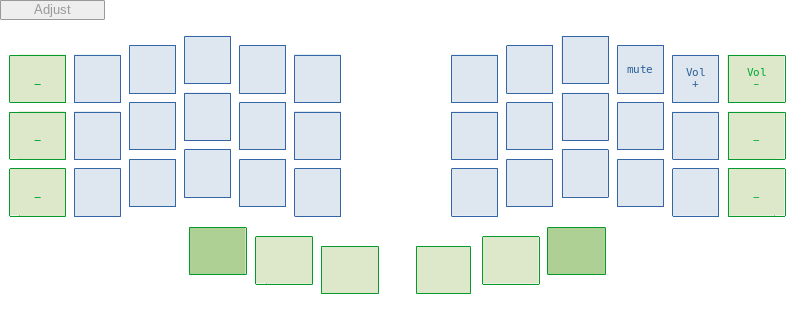
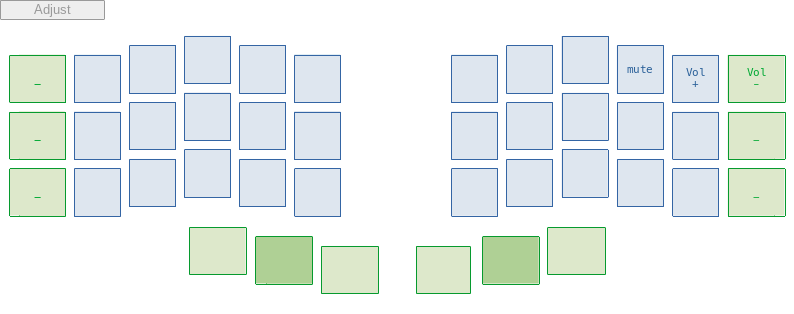
Replace colon/scolon

Changed region(s): [[0.6045, 0.7166, 0.7859, 0.9172], [0.2418, 0.7166, 0.3929, 0.9172]]

diff --git a/keymap.c b/keymap.c
@@ -99,12 +99,12 @@ const uint16_t PROGMEM keymaps[][MATRIX_ROWS][MATRIX_COLS] = {
   //|-----------------------+----------------+----------------+----------------+----------------+-----------------------|       |-----------------------+----------------+----------------+----------------+----------------+-----------------------|
       KC_TAB                ,     BP_Z       ,    BP_EACU     ,     BP_P       ,     BP_O       ,        BP_J           ,                 BP_K          ,      BP_V      ,      BP_D      ,      BP_L      ,      BP_M      ,       KC_BSPC         ,
   //|-----------------------+----------------+----------------+----------------+----------------+-----------------------|       |-----------------------+----------------+----------------+----------------+----------------+-----------------------|
-      GUI_T(KC_ESC)         ,     BP_A       ,     BP_U       ,     BP_I       ,     BP_E       ,       BP_EXLM         ,                 BP_C          ,      BP_T      ,      BP_S      ,      BP_R      ,      BP_N      ,     RCS_T(BP_PERC)    ,
+      GUI_T(KC_ESC)         ,     BP_A       ,     BP_U       ,     BP_I       ,     BP_E       ,       BP_EXLM         ,                 BP_C          ,      BP_T      ,      BP_S      ,      BP_R      ,      BP_N      ,       BP_QUOT         ,
   //|-----------------------+----------------+----------------+----------------+----------------+-----------------------|       |-----------------------+----------------+----------------+----------------+----------------+-----------------------|
       KC_LAPO               ,     BP_B       ,     BP_Y       ,     BP_X       ,     BP_W       ,       BP_LABK         ,                BP_RABK        ,      BP_Q      ,      BP_G      ,      BP_H      ,      BP_F      ,       KC_RSPC         ,
   //|---/* ALT ¨ */---------+----------------+----------------+----------------+----------------+-----------------------|       |-----------------------+----------------+----------------+----------------+----------------+------/* SFT ^ */------|
   //                                                |----------------------+----------------------+-----------------------|   |-----------------------+----------------------+----------------------|
-                                                            BP_COLN        , LT(_MOUSE, BP_COMM)  ,        KC_LCPO        ,       LT(_NUMERIC, KC_ENT) , LT(_ARROWS, BP_DOT)  ,     BP_QUOT
+                                                            BP_SCLN        , LT(_MOUSE, BP_COMM)  ,        KC_LCPO        ,      LT(_NUMERIC, KC_ENT) , LT(_ARROWS, BP_DOT)  ,     BP_COLN
   //                                                |----------------------+----------------------+----/* Space ctl */----|   |-----------------------+----------------------+----------------------|
   ),
 
@@ -181,12 +181,12 @@ const uint16_t PROGMEM keymaps[][MATRIX_ROWS][MATRIX_COLS] = {
   //|-----------------------+----------------+----------------+----------------+----------------+-----------------------|       |-----------------------+----------------+----------------+----------------+----------------+-----------------------|
        KC_TAB               ,     KC_Z       ,    XXXXXXX     ,     KC_P       ,     KC_O       ,        KC_J           ,                 KC_K          ,      KC_V      ,      KC_D      ,      KC_L      ,      KC_M      ,     KC_BSPC           ,
   //|-----------------------+----------------+----------------+----------------+----------------+-----------------------|       |-----------------------+----------------+----------------+----------------+----------------+-----------------------|
-      LGUI_T(KC_ESC)        ,     KC_A       ,     KC_U       ,     KC_I       ,     KC_E       ,       KC_EXLM         ,                 KC_C          ,      KC_T      ,      KC_S      ,      KC_R      ,      KC_N      ,    RCS_T(KC_PERCENT)  ,
+      LGUI_T(KC_ESC)        ,     KC_A       ,     KC_U       ,     KC_I       ,     KC_E       ,       KC_EXLM         ,                 KC_C          ,      KC_T      ,      KC_S      ,      KC_R      ,      KC_N      ,     KC_QUOTE          ,
   //|-----------------------+----------------+----------------+----------------+----------------+-----------------------|       |-----------------------+----------------+----------------+----------------+----------------+-----------------------|
        KC_LALT              ,     KC_B       ,     KC_Y       ,     KC_X       ,     KC_W       ,       KC_LABK         ,                KC_RABK        ,      KC_Q      ,      KC_G      ,      KC_H      ,      KC_F      ,     KC_RSFT           ,
   //|-----------------------+----------------+----------------+----------------+----------------+-----------------------|       |-----------------------+----------------+----------------+----------------+----------------+-----------------------|
   //                                            |------------------------+------------------------+-----------------------|   |-----------------------+------------------------+------------------------|
-                                                         KC_COLON        , LT(_US_MOUSE, KC_COMMA),        KC_LCPO        ,    LT(_US_NUMERIC, KC_ENT), LT(_US_ARROWS, KC_DOT) ,      KC_QUOTE
+                                                       KC_SEMICOLON      , LT(_US_MOUSE, KC_COMMA),        KC_LCPO        ,    LT(_US_NUMERIC, KC_ENT), LT(_US_ARROWS, KC_DOT) ,      KC_COLON
   //                                            |------------------------+------------------------+----/* Space ctl */----|   |-----------------------+------------------------+------------------------|
   ),
 

diff --git a/features/combo.c b/features/combo.c
@@ -28,7 +28,7 @@ enum combos {
     U_ACCENT,
     C_CEDILLE,
 
-
+    // --
     ENTER_SHIFTED,
         US_ENTER_SHIFTED,
 
@@ -53,8 +53,6 @@ enum combos {
         US_BACKSLASH,
     CIRCUMFLEX,
         US_CIRCUMFLEX,
-    COLON,
-        US_COLON,
     DOUBLE_QUOTE,
         US_DOUBLE_QUOTE,
     GRAVE,
@@ -63,8 +61,6 @@ enum combos {
         US_HASH,
     PIPE,
         US_PIPE,
-    SEMICOLON,
-        US_SEMICOLON,
     SLASH,
         US_SLASH,
     TILDE,
@@ -95,8 +91,7 @@ uint16_t COMBO_LEN = COMBO_LENGTH;
 // Sequences fo keys
 const uint16_t PROGMEM switch_bepo_usa[] = {KC_TAB, KC_BSPC, COMBO_END};
 
-// KC_SEMICOLON      , LT(_US_MOUSE, KC_COMMA),        KC_LCPO        ,    LT(_US_NUMERIC, KC_ENT), LT(_US_ARROWS, KC_DOT) ,      KC_COLON
-
+// --
 const uint16_t PROGMEM combo_adjust[] = {LT(_MOUSE, BP_COMM), LT(_ARROWS, BP_DOT), COMBO_END};
 const uint16_t PROGMEM us_combo_adjust[] = {LT(_US_MOUSE, KC_COMMA), LT(_US_ARROWS, KC_DOT), COMBO_END};
 
@@ -118,7 +113,6 @@ const uint16_t PROGMEM us_combo_control_shift_alt[] = {KC_LCPO, KC_S, KC_A, COMB
 
 const uint16_t PROGMEM combo_right_alt[] = {KC_LAPO, BP_G, COMBO_END};
 const uint16_t PROGMEM us_combo_right_alt[] = {KC_LALT, KC_G, COMBO_END};
-
 
 // --
 const uint16_t PROGMEM combo_e_dans_l_a[] = {BP_EACU, BP_A, COMBO_END};
@@ -142,9 +136,6 @@ const uint16_t PROGMEM us_combo_backslash[] = {KC_D, KC_R, COMBO_END};
 const uint16_t PROGMEM combo_circumflex[] = {BP_C, BP_R, COMBO_END};
 const uint16_t PROGMEM us_combo_circumflex[] = {KC_C, KC_R, COMBO_END};
 
-const uint16_t PROGMEM combo_colon[] = {BP_C, LT(_ARROWS, BP_DOT), COMBO_END};
-const uint16_t PROGMEM us_combo_colon[] = {KC_C, LT(_US_ARROWS, KC_DOT), COMBO_END};
-
 const uint16_t PROGMEM combo_double_quote[] = {BP_D, BP_QUOT, COMBO_END};
 const uint16_t PROGMEM us_combo_double_quote[] = {KC_D, KC_QUOTE, COMBO_END};
 
@@ -156,9 +147,6 @@ const uint16_t PROGMEM us_combo_hash[] = {KC_H, KC_S, COMBO_END};
 
 const uint16_t PROGMEM combo_pipe[] = {BP_P, BP_E, COMBO_END};
 const uint16_t PROGMEM us_combo_pipe[] = {KC_P, KC_E, COMBO_END};
-
-const uint16_t PROGMEM combo_semicolon[] = {BP_COLN, BP_P, COMBO_END};
-const uint16_t PROGMEM us_combo_semicolon[] = {KC_COLON, KC_P, COMBO_END};
 
 const uint16_t PROGMEM combo_slash[] = {BP_S, BP_L, COMBO_END};
 const uint16_t PROGMEM us_combo_slash[] = {KC_S, KC_L, COMBO_END};
@@ -200,7 +188,7 @@ combo_t key_combos[] = {
     [LAYER_FN_OSL] = COMBO(combo_fn_osl, OSL(_FN)),
     [US_LAYER_FN_OSL] = COMBO(us_combo_fn_osl, OSL(_US_FN)),
 
-
+    // --
     [ENTER_SHIFTED] = COMBO(combo_enter_shifted, S(KC_ENT)),
     [US_ENTER_SHIFTED] = COMBO(us_combo_enter_shifted, S(KC_ENT)),
 
@@ -215,7 +203,6 @@ combo_t key_combos[] = {
 
     [RIGHT_ALT] = COMBO(combo_right_alt, KC_RALT),
     [US_RIGHT_ALT] = COMBO(us_combo_right_alt, KC_RALT),
-
 
     // --
     [E_DANS_L_A] = COMBO(combo_e_dans_l_a, BP_AE),
@@ -236,9 +223,6 @@ combo_t key_combos[] = {
     [BACKSLASH] = COMBO(combo_backslash, BP_BSLS),
     [US_BACKSLASH] = COMBO(us_combo_backslash, KC_BACKSLASH),
 
-    [COLON] = COMBO(combo_colon, BP_COLN),
-    [US_COLON] = COMBO(us_combo_colon, KC_COLON),
-
     [CIRCUMFLEX] = COMBO(combo_circumflex, BP_CIRC),
     [US_CIRCUMFLEX] = COMBO(us_combo_circumflex, KC_CIRCUMFLEX),
 
@@ -256,9 +240,6 @@ combo_t key_combos[] = {
 
     [SLASH] = COMBO(combo_slash, BP_SLSH),
     [US_SLASH] = COMBO(us_combo_slash, KC_SLASH),
-
-    [SEMICOLON] = COMBO(combo_semicolon, BP_SCLN),
-    [US_SEMICOLON] = COMBO(us_combo_semicolon, KC_SEMICOLON),
 
     [TILDE] = COMBO(combo_tilde, BP_TILD),
     [US_TILDE] = COMBO(us_combo_tilde, KC_TILDE),

diff --git a/features/auto_shift.c b/features/auto_shift.c
@@ -103,9 +103,7 @@ bool get_custom_auto_shifted_key(uint16_t keycode, keyrecord_t *record) {
     switch(keycode) {
 
         case KC_BSPC:
-
         case BP_EXLM:
-        case BP_PERC:
 
         // US
         case KC_EXLM: // !
@@ -126,9 +124,6 @@ void autoshift_press_user(uint16_t keycode, bool shifted, keyrecord_t *record) {
 
         case BP_EXLM:
             register_code16((!shifted) ? BP_EXLM : BP_QUES);
-            break;
-        case BP_PERC:
-            register_code16((!shifted) ? BP_PERC : ALGR(BP_PERC));
             break;
 
         // US
@@ -154,9 +149,6 @@ void autoshift_release_user(uint16_t keycode, bool shifted, keyrecord_t *record)
 
         case BP_EXLM:
             unregister_code16((!shifted) ? BP_EXLM : BP_QUES);
-            break;
-        case BP_PERC:
-            unregister_code16((!shifted) ? BP_PERC : ALGR(BP_PERC));
             break;
 
         // US

diff --git a/config.h b/config.h
@@ -53,7 +53,7 @@ This is the c configuration file for the keymap
 #define MK_C_OFFSET_1 4
 #define MK_C_INTERVAL_1 18
 
-#define MK_C_OFFSET_UNMOD 12
+#define MK_C_OFFSET_UNMOD 13
 #define MK_C_INTERVAL_UNMOD 17
 
 #define MK_C_OFFSET_2 27

diff --git a/features/oled.c b/features/oled.c
@@ -47,6 +47,7 @@ void oled_display(void) {
         }
 
 
+    // Layer name
     if (get_highest_layer(layer_state) != _BASE && get_highest_layer(layer_state) != _US_BASE){
 
         // US banner

diff --git a/README.md b/README.md
@@ -51,7 +51,6 @@ Or outside the folder :
 |   h + s          |   #                    |
 |   a + p          |   &                    |
 |   p + e          |   pipe                 |
-|   p + :          |   ;                    |
 |   s + b          |   /                    |
 |   d + r          |   \                    |
 |   t + d          |   ~                    |
@@ -64,8 +63,7 @@ Or outside the folder :
 #### Layouts
 
 ![base](https://raw.githubusercontent.com/FLinguenheld/corne_keymap/main/images/base.png "layout")  
-![lower](https://raw.githubusercontent.com/FLinguenheld/corne_keymap/main/images/lower.png "layout")  
-![raise](https://raw.githubusercontent.com/FLinguenheld/corne_keymap/main/images/raise.png "layout")  
+![numeric](https://raw.githubusercontent.com/FLinguenheld/corne_keymap/main/images/numeric.png "layout")  
 ![mouse](https://raw.githubusercontent.com/FLinguenheld/corne_keymap/main/images/mouse.png "layout")  
 ![arrows](https://raw.githubusercontent.com/FLinguenheld/corne_keymap/main/images/arrows.png "layout")  
 ![adjust](https://raw.githubusercontent.com/FLinguenheld/corne_keymap/main/images/adjust.png "layout")  
